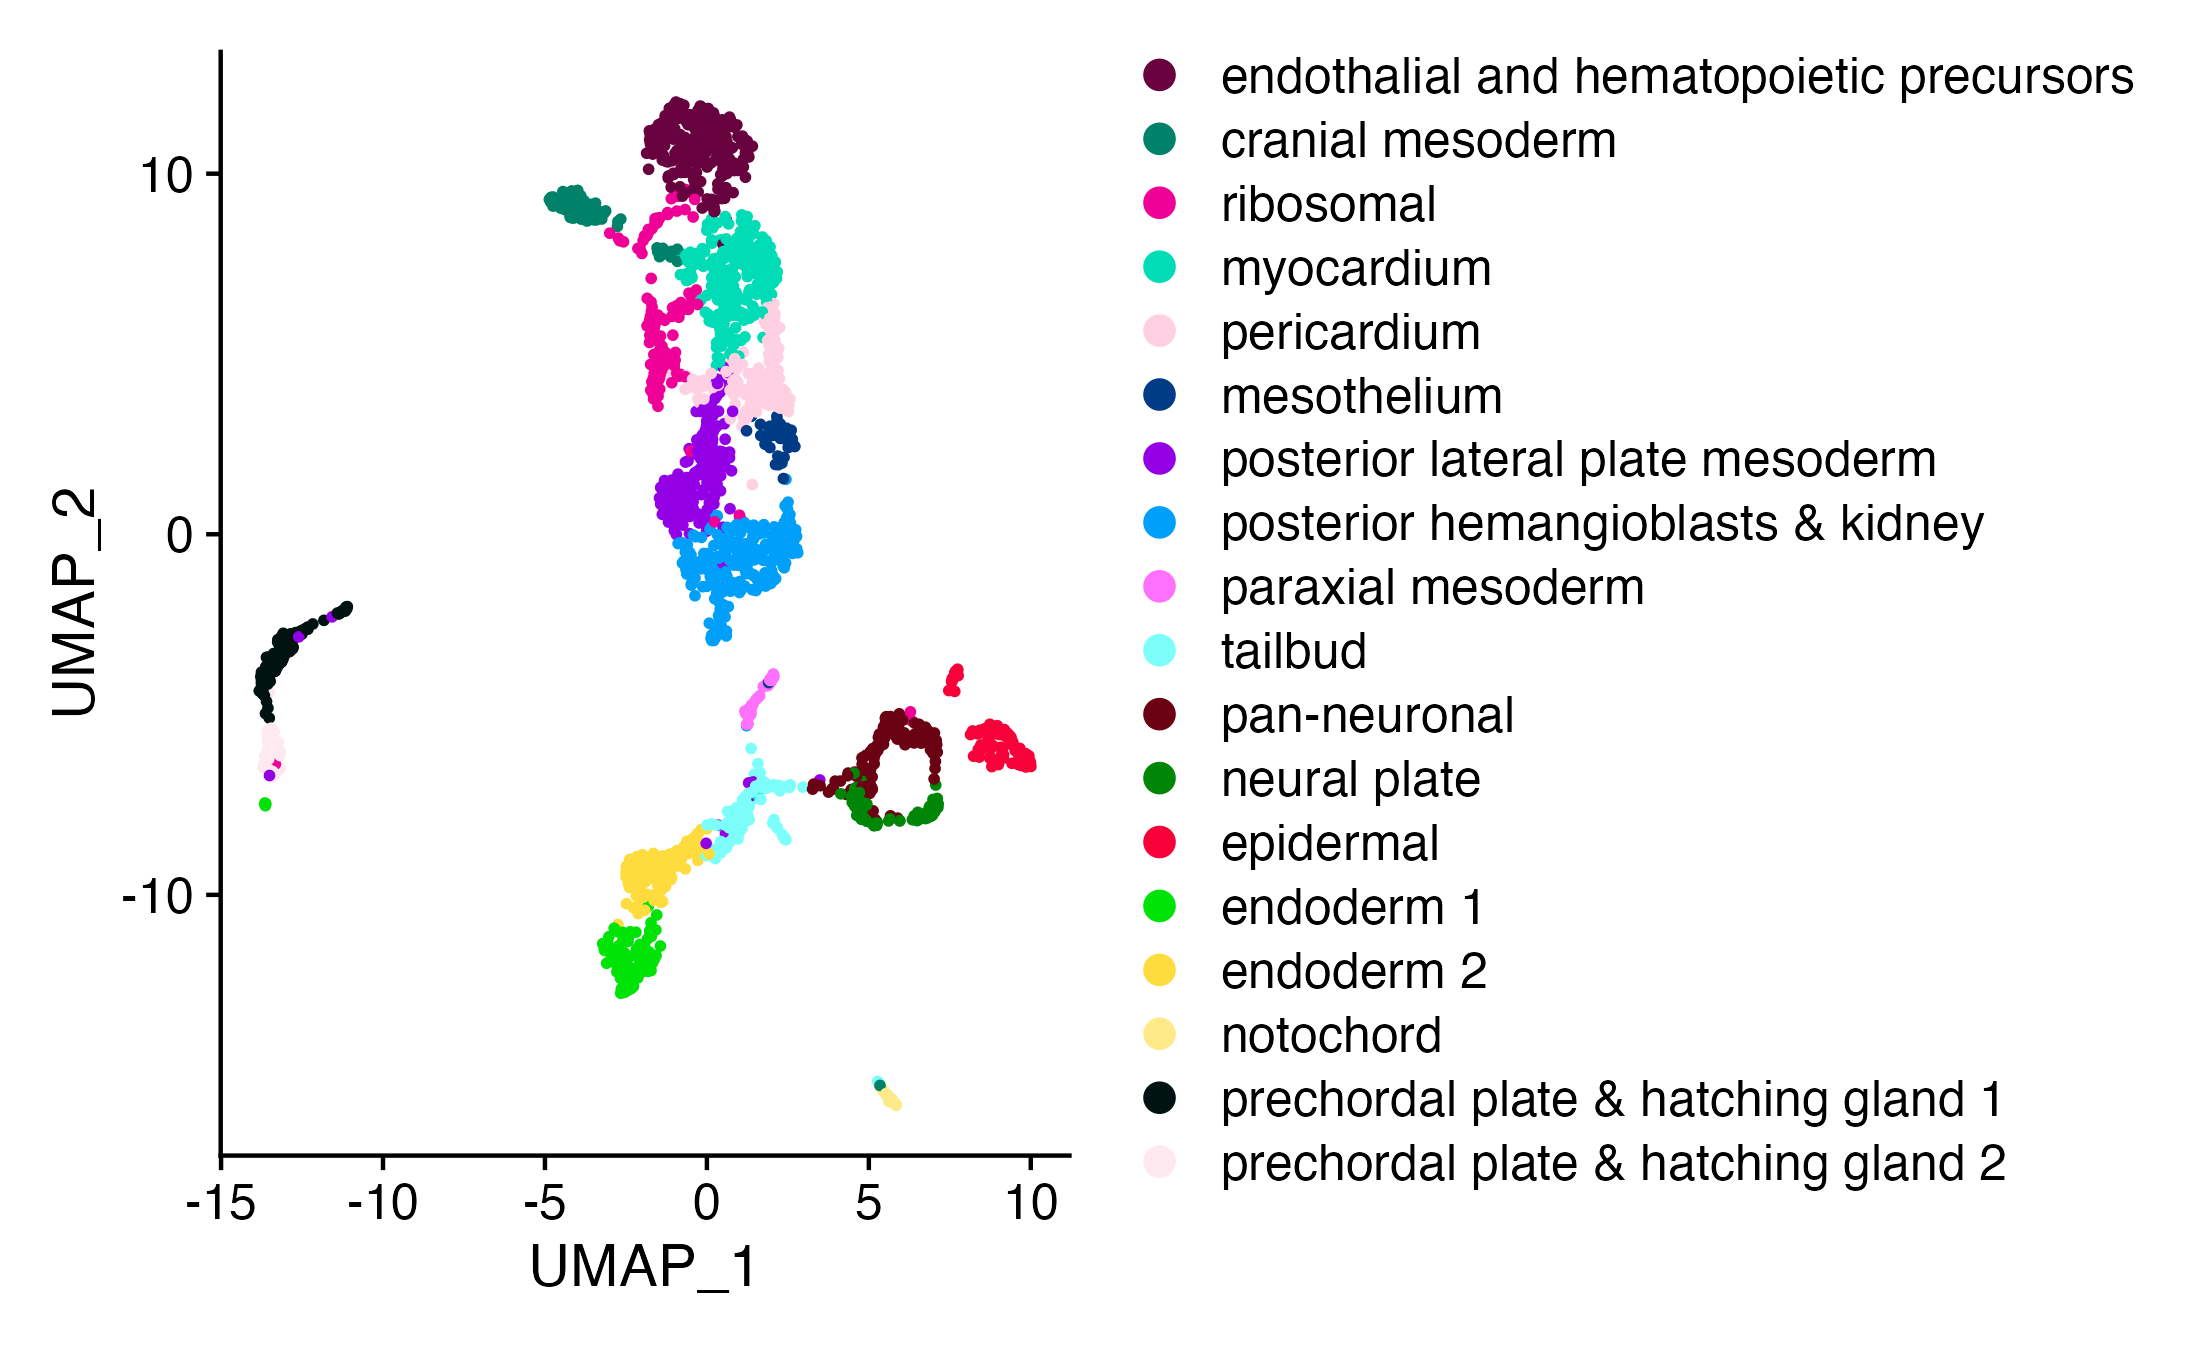
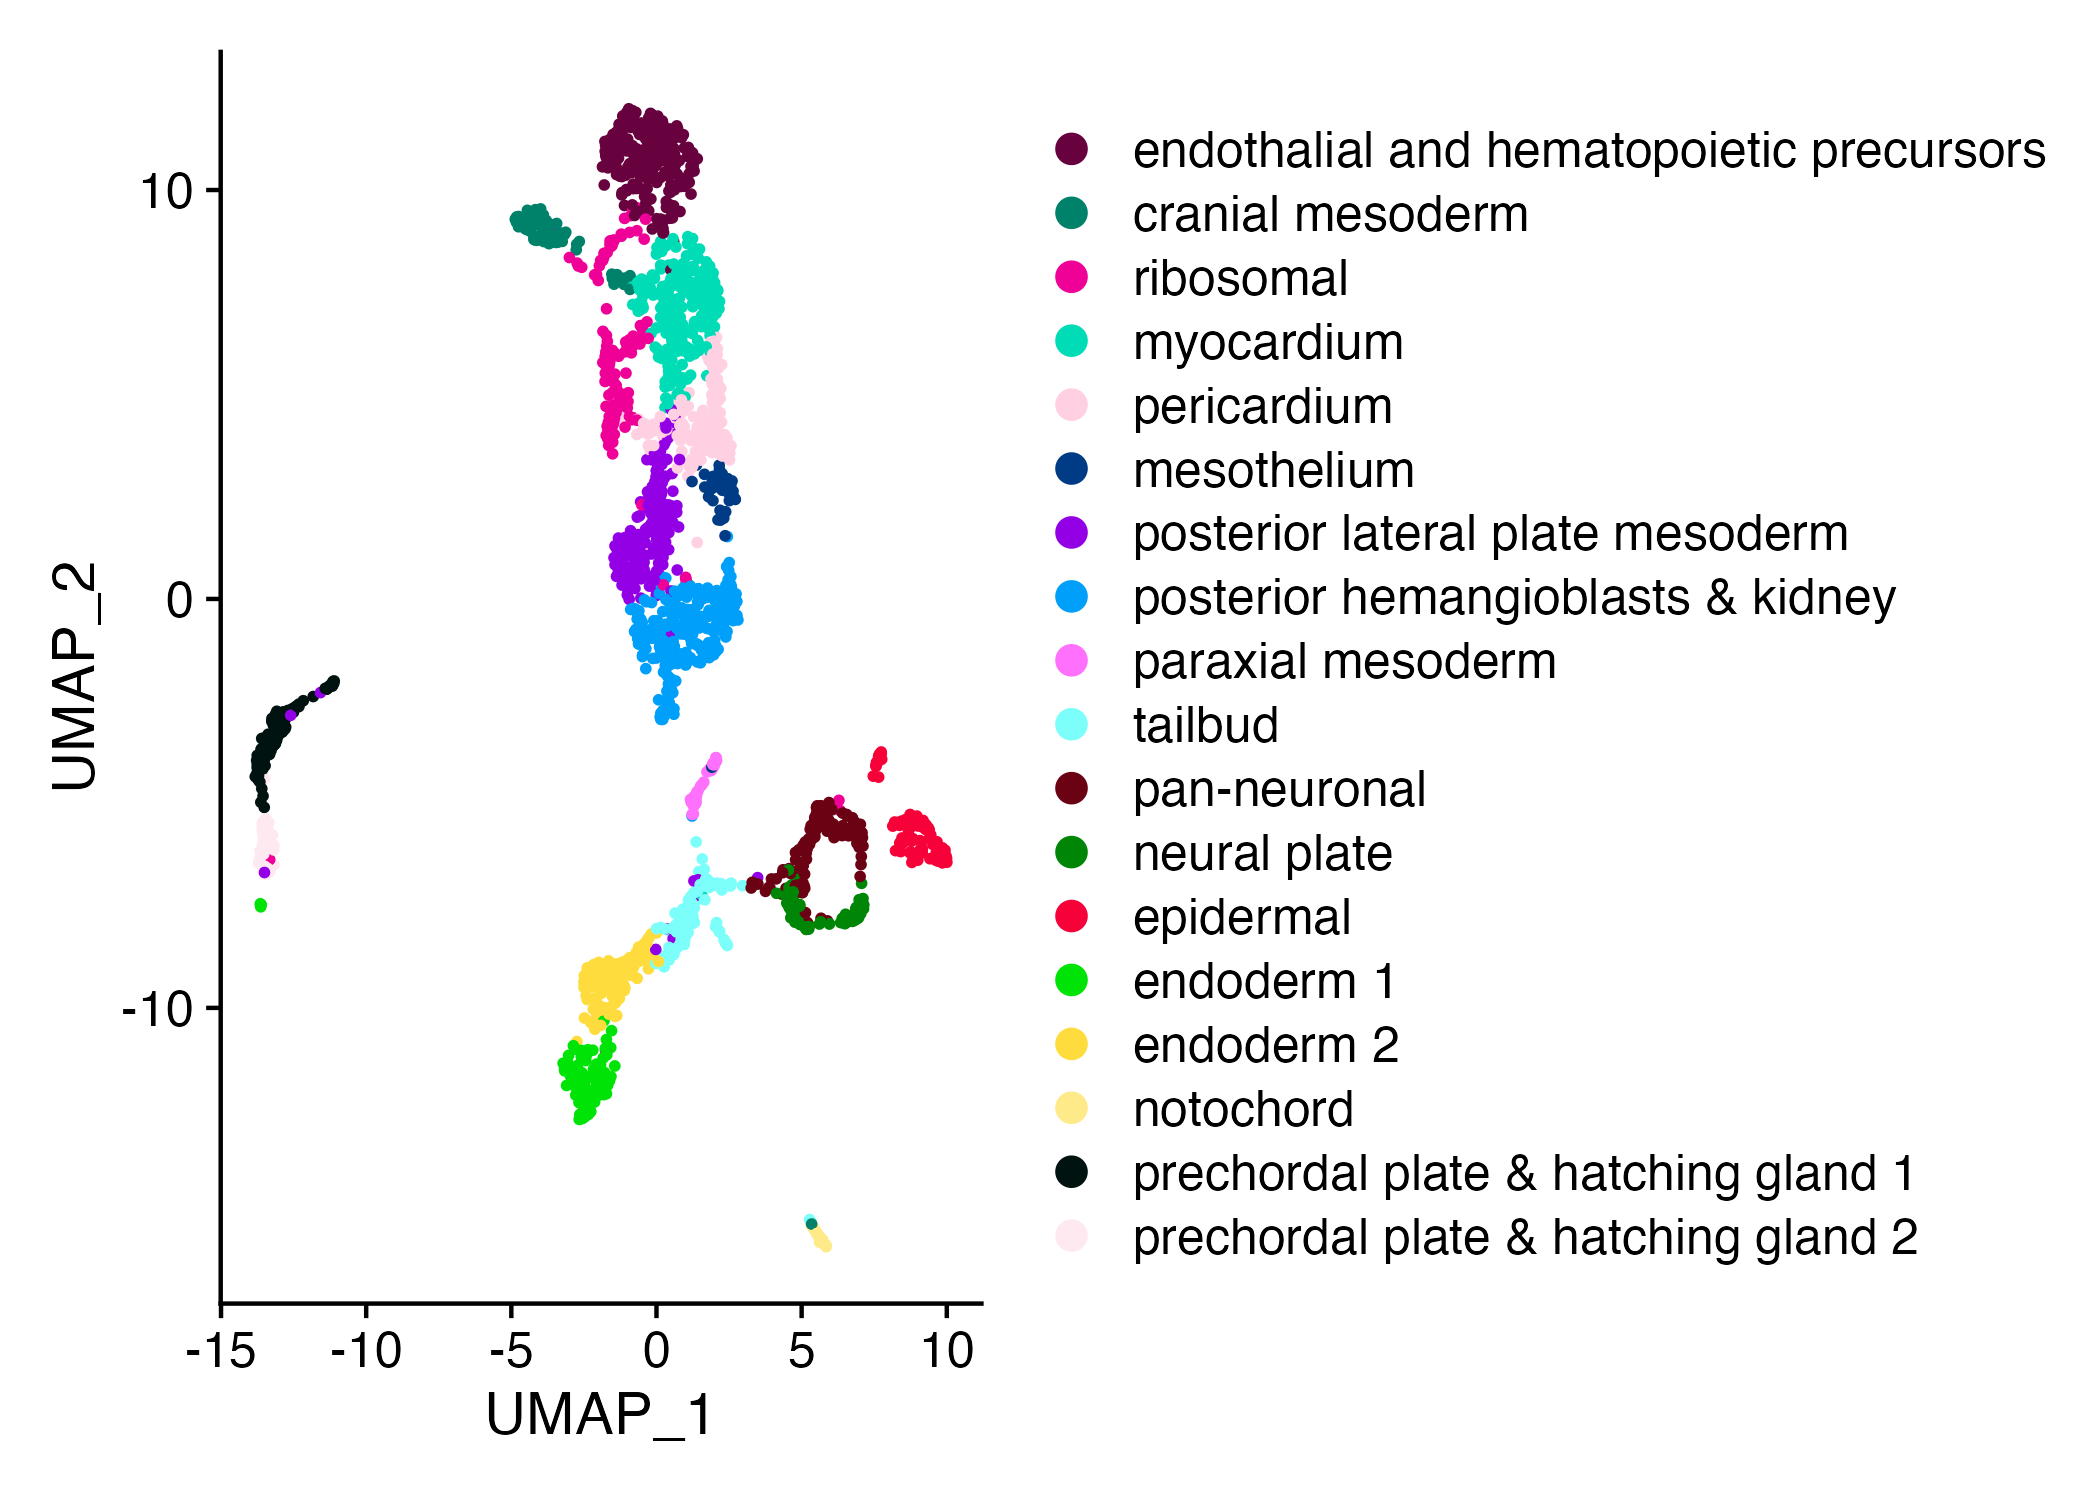
knit dotplot

Changed region(s): [[0.2477, 0.0311, 0.9909, 0.8705], [0.0, 0.0311, 0.4955, 0.9637]]

diff --git a/notebooks/DotPlot.md b/notebooks/DotPlot.md
@@ -1,12 +1,7 @@
----
-title: "Process hand2 bud stage scRNA-seq R Notebook"
-output:
-  github_document: default
-  html_document:
-    df_print: paged
----
+Process hand2 bud stage scRNA-seq R Notebook
+================
 
-```{r libraries, results='hide', message=FALSE, warning=FALSE, error=FALSE}
+``` r
 library(Seurat)
 library(sctransform)
 library(ggplot2)
@@ -17,22 +12,25 @@ library(patchwork)
 options(future.globals.maxSize = 4000 * 1024^2)
 ```
 
-```{r mypal}
+``` r
 mypal <- pal_ucscgb(palette = "default",alpha = 1)(25)
 cbpal18 <- c("#68023F","#008169","#EF0096","#00DCB5","#FFCFE2",
            "#003C86","#9400E6","#009FFA","#FF71FD","#7CFFFA",
            "#6A0213","#008607","#F60239","#00E307","#FFDC3D","#ffea8a","#001310","#ffe9f1")
 ```
 
-```{r}
+``` r
 seurat <- readRDS(file = "RDSfiles/hand2.bud.clustered.RDS")
 ```
 
-```{r}
+``` r
 Idents(seurat) <- "sub.cluster"
 DimPlot(seurat, cols = cbpal18)
 ```
-```{r}
+
+![](DotPlot_files/figure-gfm/unnamed-chunk-2-1.png)<!-- -->
+
+``` r
 Idents(seurat) <- "sub.cluster"
 seurat <- RenameIdents(seurat,
                        "cardiomyocytes" = "myocardium",
@@ -45,27 +43,51 @@ levels(seurat) <- c("endothalial and hematopoietic precursors","cranial mesoderm
                     "notochord","prechordal plate & hatching gland 1","prechordal plate & hatching gland 2")
 ```
 
-
-```{r}
+``` r
 p <- DimPlot(seurat, cols = cbpal18)
 p
+```
+
+![](DotPlot_files/figure-gfm/unnamed-chunk-4-1.png)<!-- -->
+
+``` r
 ggsave(filename = "results/hand2_bud_umap_vs2.png", plot = p)
 ```
 
-```{r}
+    ## Saving 7 x 5 in image
+
+``` r
 p <- DimPlot(seurat) + scale_color_igv()
 p
+```
+
+![](DotPlot_files/figure-gfm/unnamed-chunk-5-1.png)<!-- -->
+
+``` r
 ggsave(filename = "results/hand2_bud_umap_vs3.png", plot = p)
 ```
-```{r}
+
+    ## Saving 7 x 5 in image
+
+``` r
 genelist <- c("tcf21", "sema3aa", "wt1a", "meis3", "adra1d", "kank1a",
               "jam2b", "sfrp5", "tmem88b", "nr2f1a", "meis2b", "twist1a",
               "tbx20", "mef2ca", "hey2", "actn2b","ttn.2", "nkx2.5")
 ```
 
-```{r, fig.width=7, fig.height=3}
+``` r
 p <- DotPlot(seurat, features = genelist, idents = c("pericardium","myocardium","mesothelium")) + RotatedAxis()
-p
-ggsave(filename = "results/dotplot.png", plot = p, width = 7, height = 3, units = "in")
 ```
 
+    ## Warning: Scaling data with a low number of groups may produce misleading
+    ## results
+
+``` r
+p
+```
+
+![](DotPlot_files/figure-gfm/unnamed-chunk-7-1.png)<!-- -->
+
+``` r
+ggsave(filename = "results/dotplot.png", plot = p, width = 7, height = 3, units = "in")
+```
